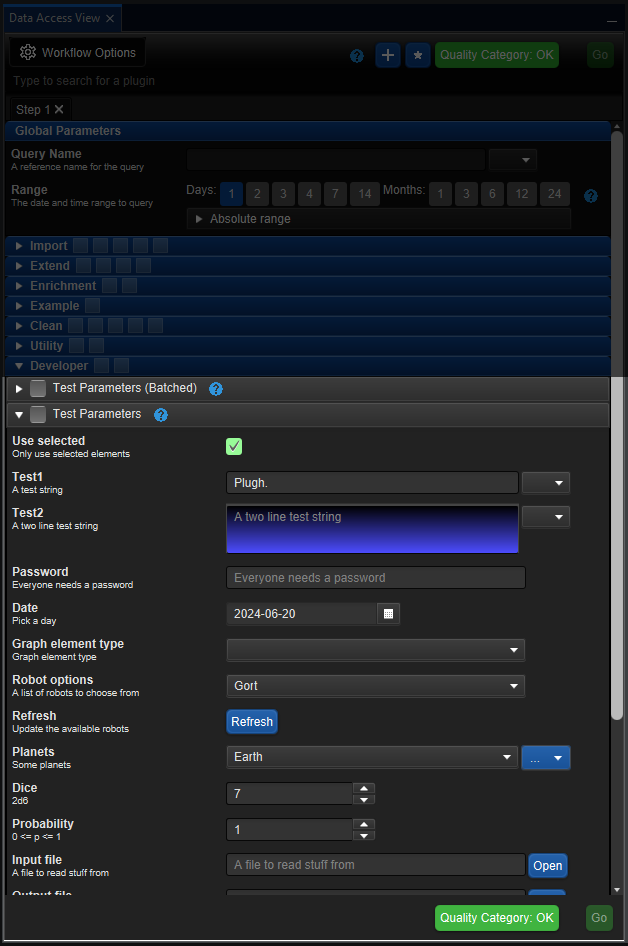
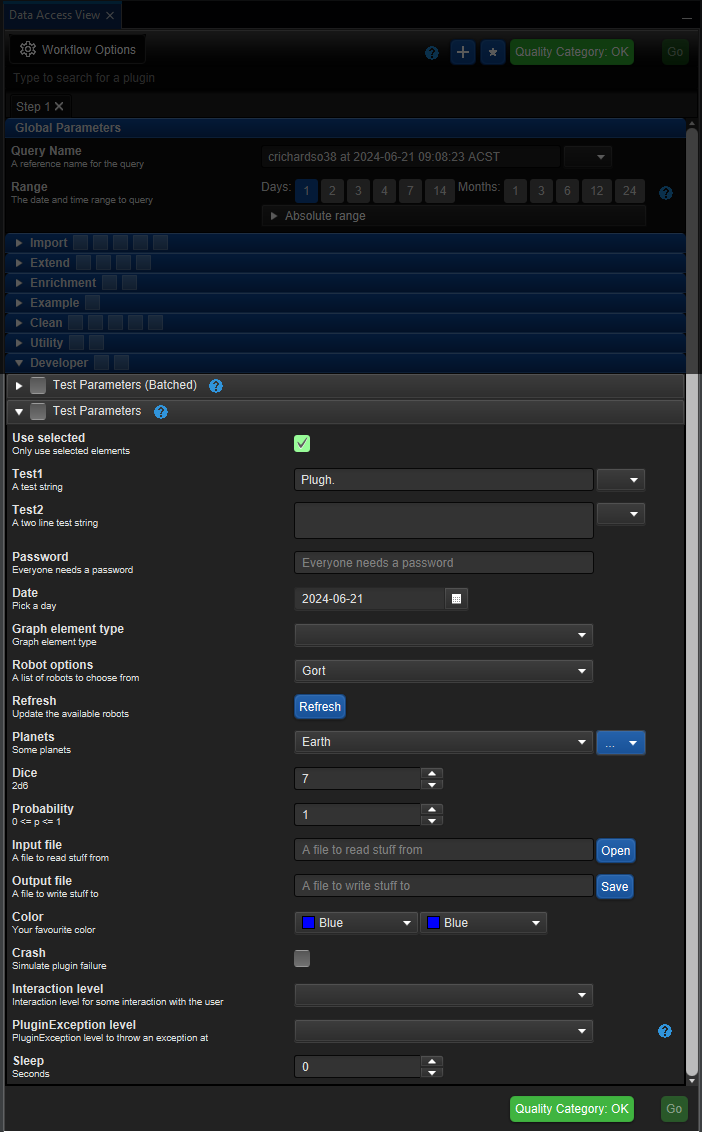
Fix typo and update test parameters image

diff --git a/CoreInteractiveGraph/release/modules/ext/docs/CoreInteractiveGraph/src/au/gov/asd/tac/constellation/graph/interaction/composite-nodes.md b/CoreInteractiveGraph/release/modules/ext/docs/CoreInteractiveGraph/src/au/gov/asd/tac/constellation/graph/interaction/composite-nodes.md
@@ -14,7 +14,7 @@
 <br />
 
 A composite node is a node that contains 2 or more nodes. 
-It can be expaned to reveal the nodes contained within.
+It can be expanded to reveal the nodes contained within.
 
 
 ## Composite Selected Nodes
